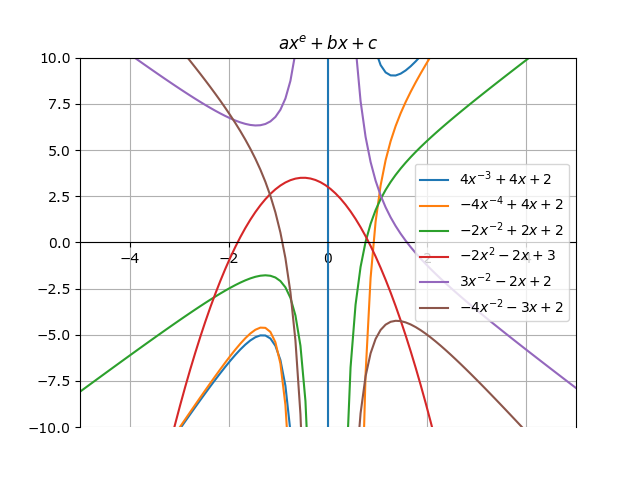
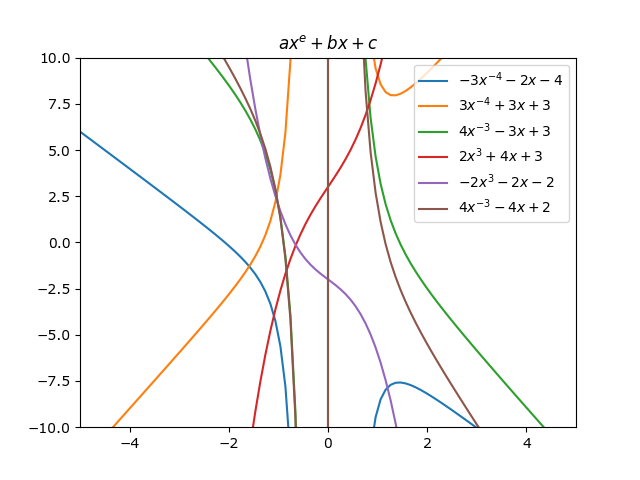
Add Black White Image

diff --git a/templates/upload.html b/templates/upload.html
@@ -1,0 +1,25 @@
+<!DOCTYPE html>
+<html lang="en">
+<head>
+    <meta charset="UTF-8">
+    <meta http-equiv="X-UA-Compatible" content="IE=edge">
+    <meta name="viewport" content="width=device-width, initial-scale=1.0">
+    <title>Document</title>
+    <link rel="stylesheet" href="    {{ url_for('static', filename='tail.css') }}
+    ">
+</head>
+<body class="bg-gray-300 p-5">
+    
+    <div class="bg-gray-200 border-2xl text-center">
+        <h1 class="text-2xl font-mono">Black White Converter</h1>
+        <form class="p-4" action="/proccimg" method="POST" enctype="multipart/form-data">
+            <div class="bg-gray-500 p-6 rounded-lg">
+                <input type="file" name="file" id="file">
+
+            </div>
+            <br>
+            <input class="p-6 rounded-lg  bg-white mt-5 uppercase" type="submit">
+        </form>
+    </div>
+</body>
+</html>

diff --git a/app.py b/app.py
@@ -1,17 +1,33 @@
 from random import gauss
-from flask import Flask, render_template, send_file
+from flask import Flask, render_template, send_file, request
 from string import ascii_letters
 from utils.cr import Client
 from utils.gr import graphing, graphing_random
 from utils.sc import searchingW
 from utils.rr import read_Readme, auto_Render
+from utils.pp import show_img
+from time import sleep
+from os import remove as rm
 app = Flask(__name__)
 
 app.jinja_env.globals.update(gauss=gauss)
-
 @app.route('/')
 def index():
     return render_template('index.html', content=read_Readme())
+
+@app.route('/imgb')
+def img_bw():
+    return render_template('upload.html')
+
+@app.route('/proccimg', methods=['GET','POST'])
+def proc_image():
+    if request.method == 'POST':
+        f = request.files['file']
+        f.save(f.filename)
+        show_img(f)
+        sleep(1)
+        rm(f.filename)
+        return send_file('tmp\max.png')
 
 @app.route('/render/<fp>')
 def render_code(fp):
@@ -29,8 +45,6 @@ def enc(a, b, c, n):
         return send_file('tmp\graph.png')
     except:
         return render_template('index.html')
-
-
 @app.route('/graph/r')
 def graphing_r():
     try:
@@ -38,6 +52,7 @@ def graphing_r():
         return send_file('tmp\graph.png')
     except:
         return render_template('index.html')
+
 
 @app.route('/wiki/<search>')
 def wiki_Search(search):
@@ -47,3 +62,4 @@ def wiki_Search(search):
 
 if __name__ == "__main__":
     app.run(debug=True)
+

diff --git a/utils/pp.py b/utils/pp.py
@@ -1,8 +1,10 @@
 from PIL import Image, ImageFilter, ImageEnhance
-
-img = Image.open('land.jpg')
-
-img = img.filter(ImageFilter.SMOOTH())
-img = img.filter(ImageFilter.DETAIL())
-img=img.convert("L")
-img.show()
+import os
+def show_img(f):
+    img = Image.open(f)
+    os.remove('tmp\max.png')
+    img = img.filter(ImageFilter.SMOOTH())
+    img = img.filter(ImageFilter.DETAIL())
+    img = img.convert("L")
+    img.save('tmp\max.png')
+    

diff --git a/utils/gr.py b/utils/gr.py
@@ -24,11 +24,11 @@ def graphing(a=0,b=0,c=0,n=1,l=10):
 def graphing_random():
     x=np.linspace(-5,5,100)
     fig, ax = plt.subplots()
-    ax.spines['bottom'].set_position('zero')
-    ax.grid(True)
+    # ax.spines['bottom'].set_position('zero')
     ax.set_ylim(-10,10)
     ax.set_xlim(-5,5)
     ax.set_title(r"$ax^e+bx+c$")
+    print(dir(ax))
     for i in range(-3,3):
         n = [-4,-3,-2,2,3,4]
         a = choice(n)

diff --git a/README.md b/README.md
@@ -32,4 +32,7 @@
 >>>{r:option}
 >>>>*/graph/r*
 
+### Image Black and White --> 
+>create black and white from a given
+>>**/upload**-->**/proccimg**
 
